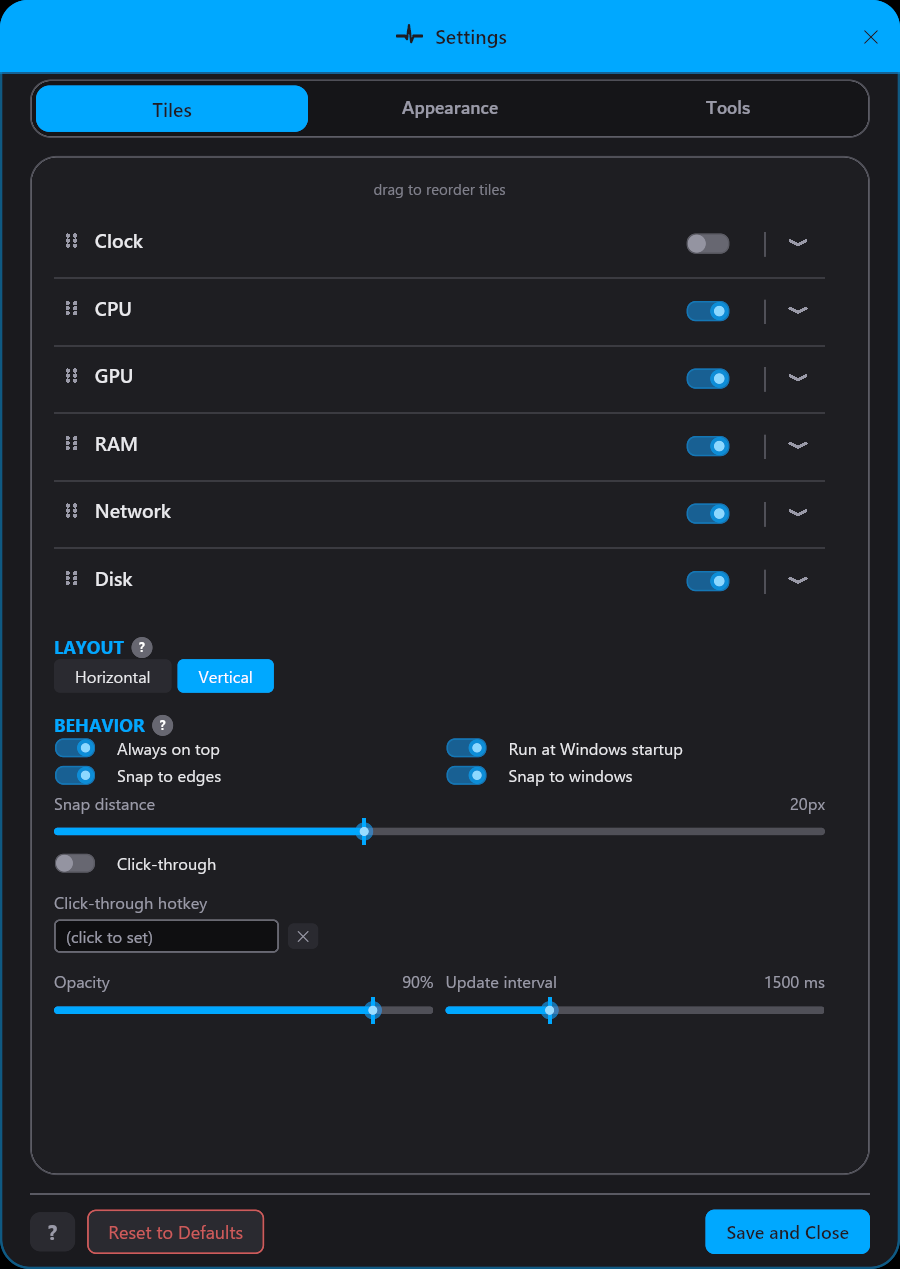
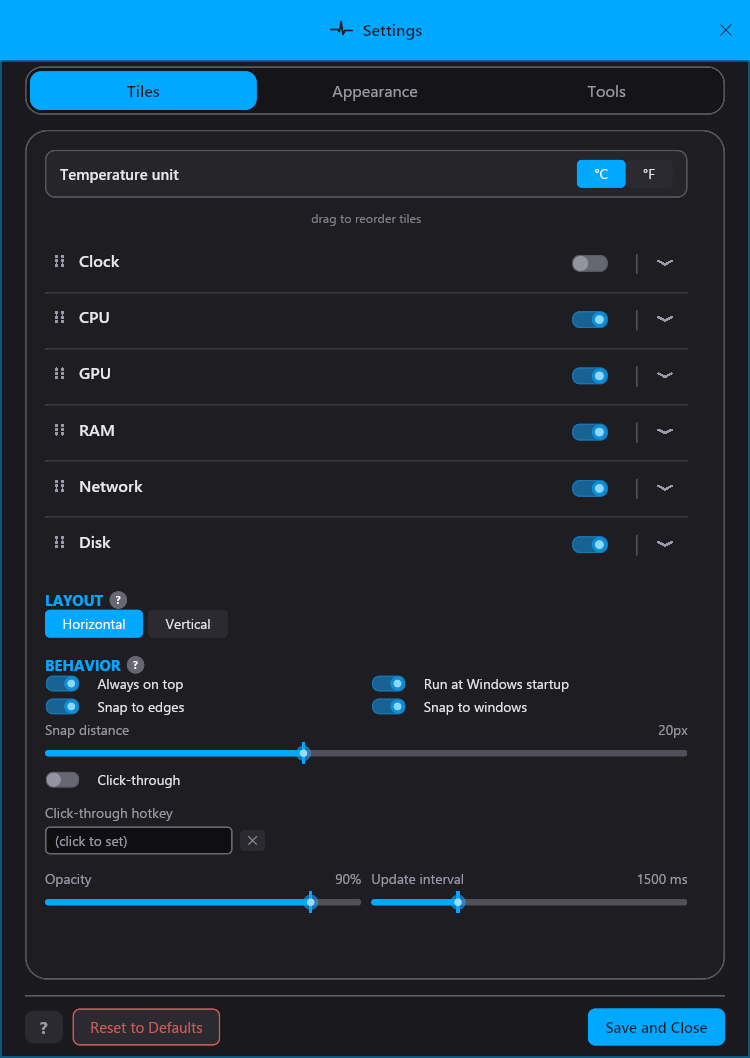
readme: v1.1.1 badge + VirusTotal 0/70, refresh Tiles screenshot (master temp-unit bar), update C/F text

diff --git a/README.md b/README.md
@@ -8,7 +8,7 @@
 
 Real-time CPU, GPU, RAM, network, and disk stats — always on your desktop, never in your way.
 
-[![Release](https://img.shields.io/badge/release-v1.1.0-5898a0)](../../releases)
+[![Release](https://img.shields.io/badge/release-v1.1.1-5898a0)](../../releases)
 [![Platform](https://img.shields.io/badge/platform-Windows%2010%2F11-0078d4)](#requirements)
 [![Built with Rust](https://img.shields.io/badge/built%20with-Rust%20%2B%20iced-dea584)](https://iced.rs)
 [![License](https://img.shields.io/badge/license-Personal%20Use-c0392b)](LICENSE)
@@ -120,7 +120,7 @@ Hit the <img src="docs/images/die.svg" height="15" alt="randomize"> for a random
 
 ### CPU temperature
 
-A one-time sensor driver setup ([PawnIO](https://pawnio.eu/)) unlocks CPU temperature directly on the widget. The driver is downloaded on demand from the official source — **Flux never bundles or redistributes it**. Switch between °C and °F with a rocker, and remove the driver any time from the same menu.
+A one-time sensor driver setup ([PawnIO](https://pawnio.eu/)) unlocks CPU temperature directly on the widget. The driver is downloaded on demand from the official source — **Flux never bundles or redistributes it**, and you can remove it any time from the same menu. Switch all temperatures between °C and °F from the master **Temperature unit** bar at the top of the Tiles tab.
 
 <div align="center">
 <img src="docs/images/cpu-driver.png" alt="CPU temperature driver" width="420">
@@ -204,7 +204,7 @@ Flux is built with security-conscious defaults:
 - **No telemetry** — the app makes zero analytics calls. The only outbound connections are the optional update check, the optional PawnIO driver download (user-initiated), and LAN-only remote monitoring.
 - **PawnIO is never bundled** — the CPU temperature driver is downloaded on demand from its [official GitHub release](https://github.com/namazso/PawnIO.Setup/releases), and is never redistributed here.
 - **Verified updates** — the in-app updater refuses to run a downloaded installer unless its SHA-256 matches a checksum published alongside the release.
-- **Scanned on VirusTotal** — every release is scanned and the result is linked in its notes. v1.1.0: **[0 detections](https://www.virustotal.com/gui/file/2d6aa6426c35617ce3a8cc9600624d5d22b36a1e01cbde3756f6dc3f6e0b09fe)** (clean).
+- **Scanned on VirusTotal** — every release is scanned and the result is linked in its notes. v1.1.1: **[0 / 70](https://www.virustotal.com/gui/file/9e622837bdfc33a58b8d1148b2a50f393ec808206fd230ebb9c5af39741ef09c)** (clean).
 - **Unsigned build** — the installer is not code-signed, so Windows SmartScreen shows a one-time prompt. Verify any download against the `.sha256` published with each release before running it.
 - **Settings stay local** — all configuration lives in `%APPDATA%\Flux`. Nothing is sent anywhere.
 - **Source-available** — every line is in this repo for inspection (see [License](#license)).